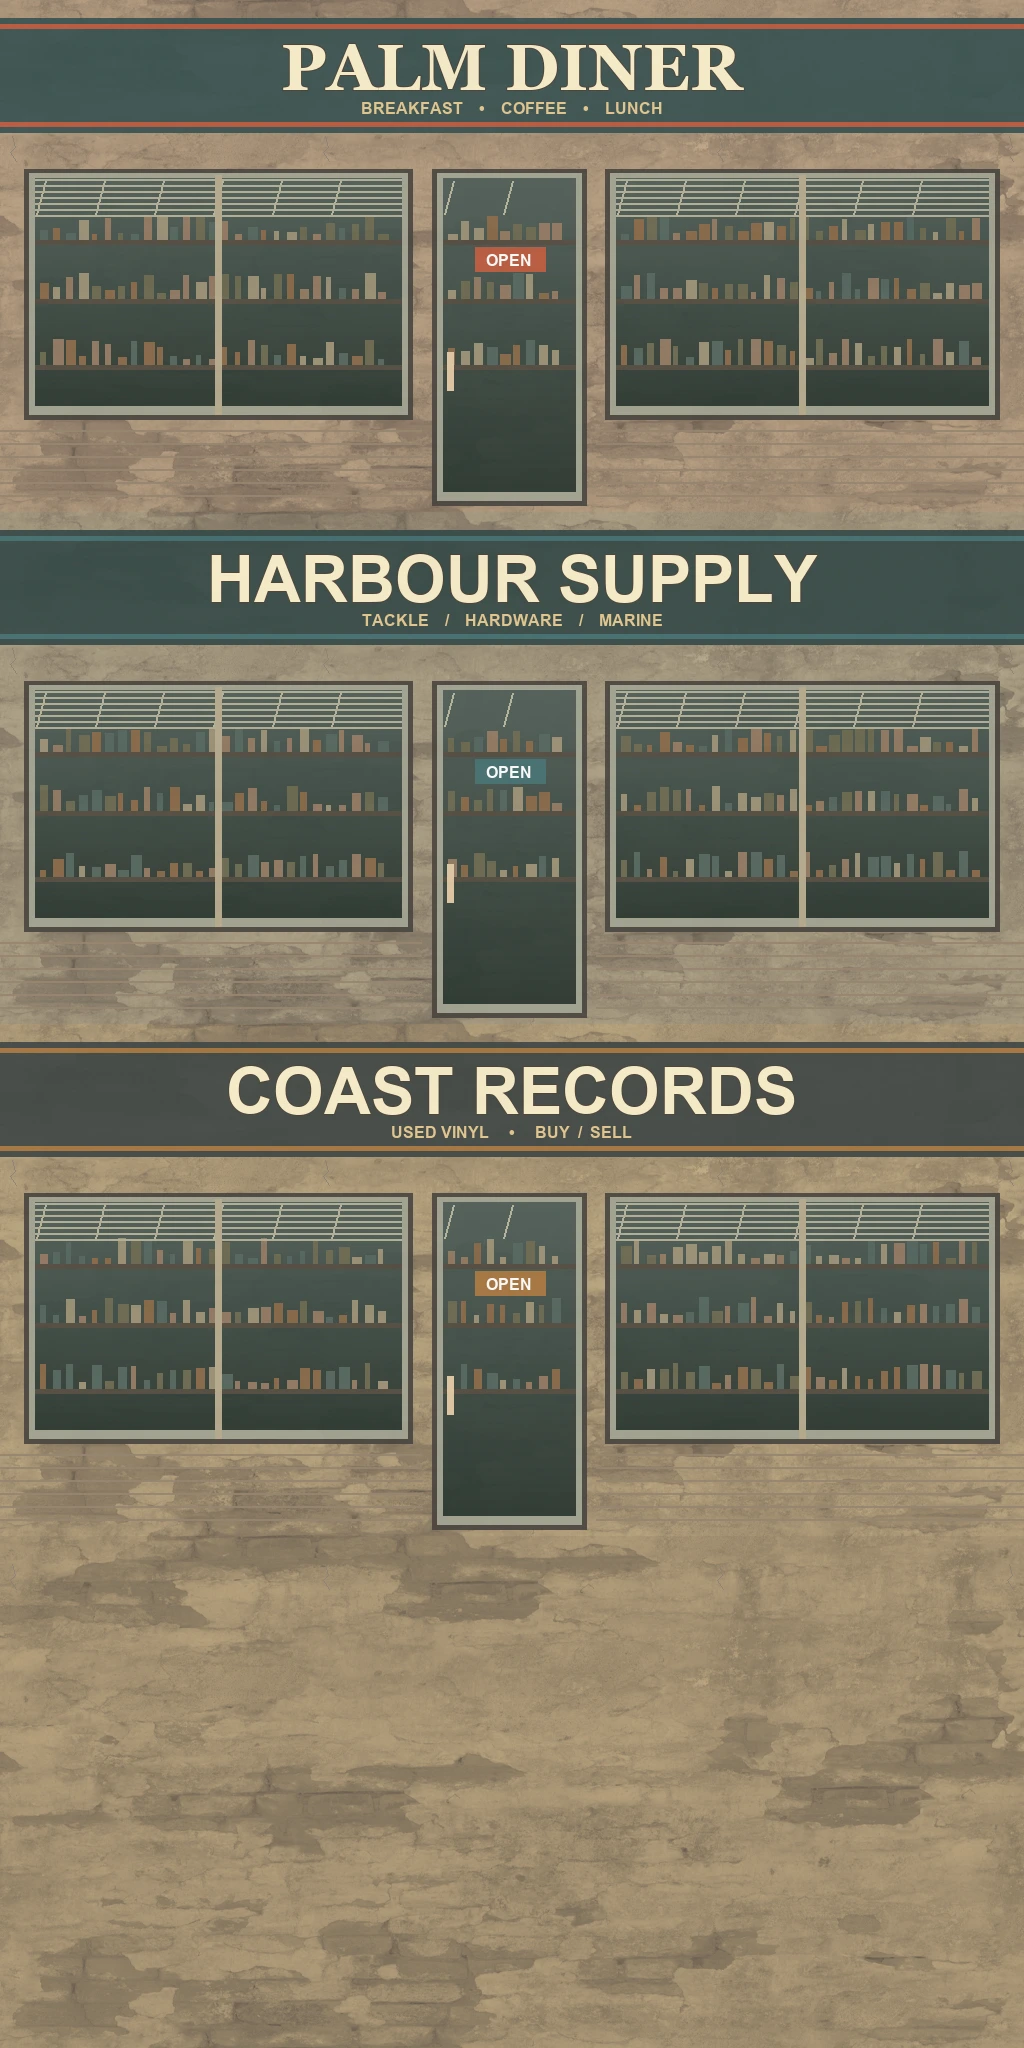
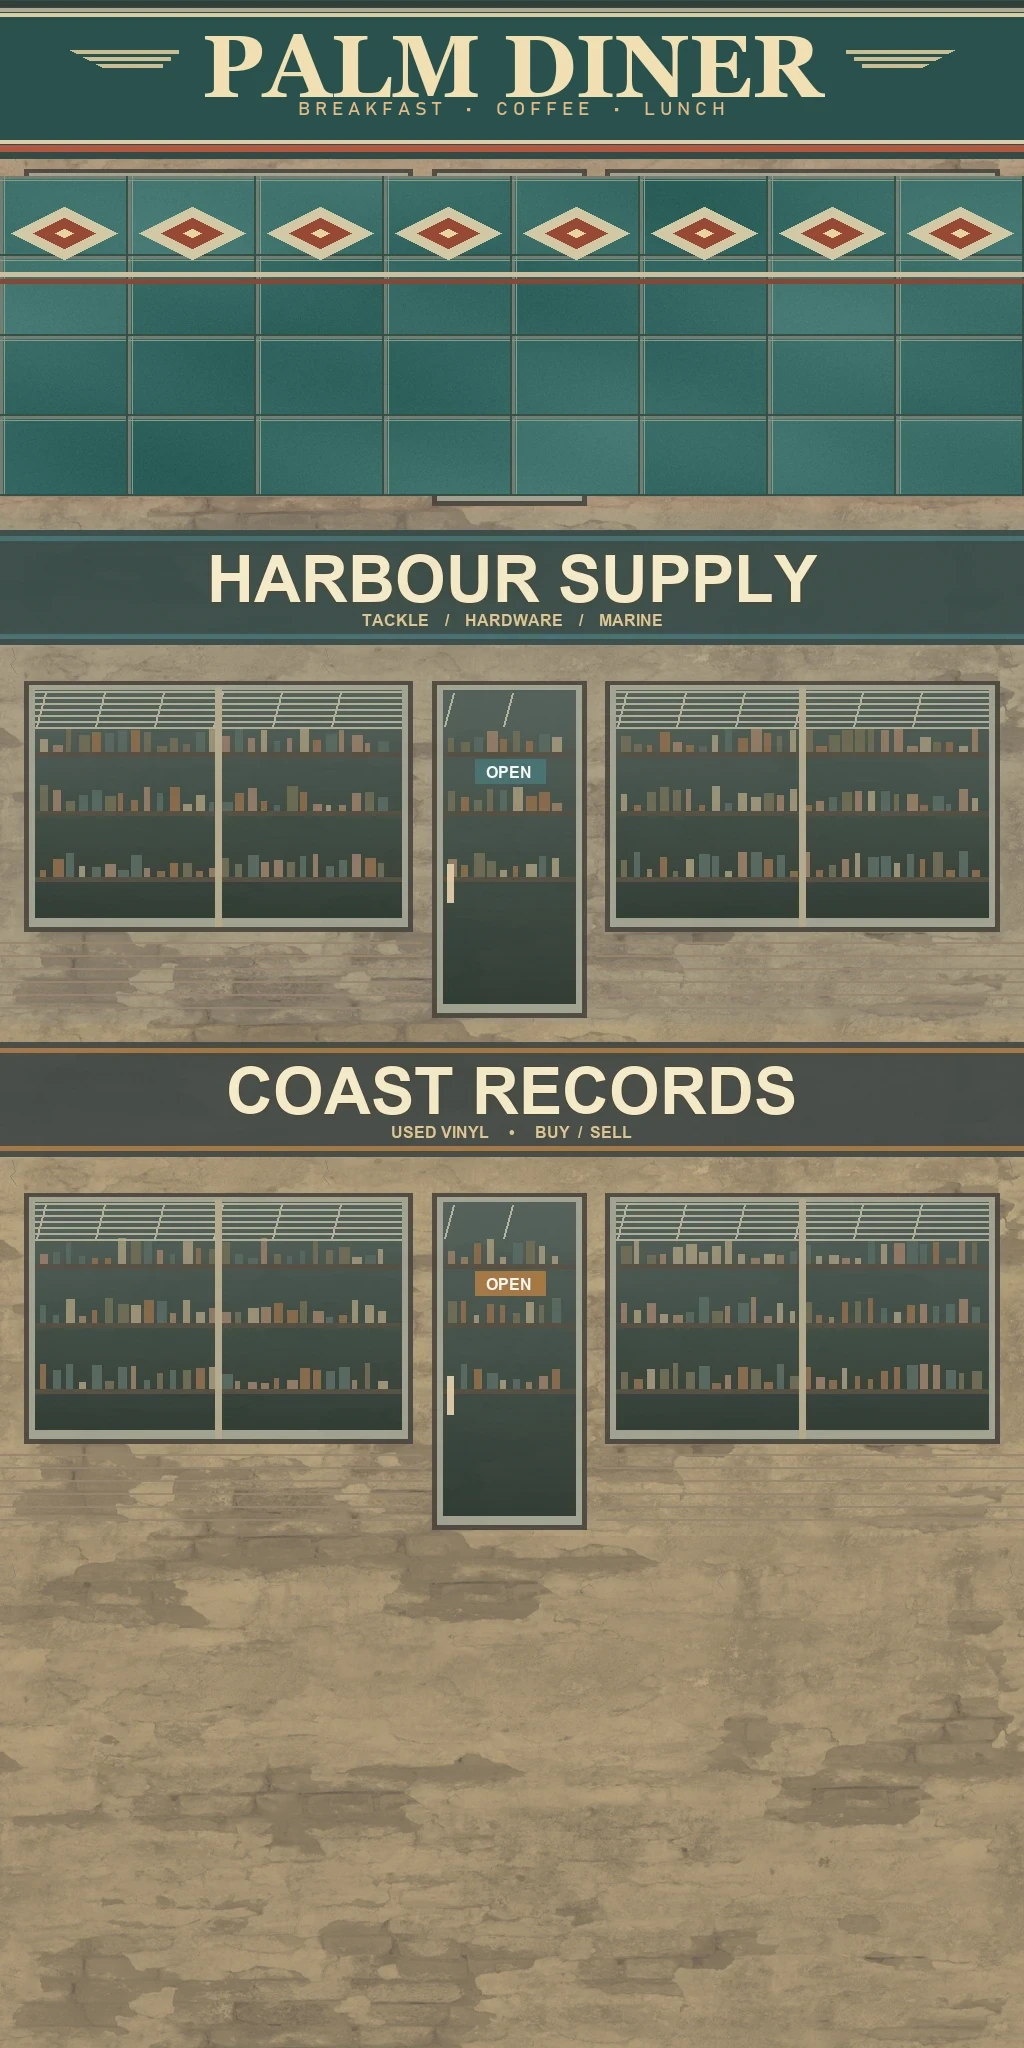
Refine Palm Diner frontage and streamline factory glazing

Changed region(s): [[0.0, 0.0, 1.0, 0.25]]

diff --git a/client/ReleaseNotes.tsx b/client/ReleaseNotes.tsx
@@ -6,7 +6,7 @@ const storageKey='eiserne-front-changelog';
 let acknowledgedInSession=false;
 const changes=[
  ['Island und Zeitreise','In der Lobby wählst du die Insel oder eine der drei historischen Karten. Kroenen ist in beiden Welten spielbar. Die übrigen Bonusfiguren und die Sprengrennwagen gehören zur Insel.'],
- ['Begehbare Harbour Road','Östlich der Radarstation liegen Palm Diner, Harbour Supply und Coast Records. Durch die offenen Eingänge gelangst du zu Sitznischen, Warenregalen und Plattenkisten. Die Läden haben eigene Böden, gerahmte Drucke, Verpackungen und Einrichtung. Bei Harbour Supply hängt ein illustrierter Musterkasten für Schiffszubehör samt aufgeschossener Leine. Im Palm Diner stehen Ketchup und Senf auf einem Emailletablett. Über dem Tresen hängt die illustrierte Frühstückskarte. Coast Records hat einen Hörplatz mit Holzlautsprechern und dem eigens gestalteten Albumcover „Low Water“. Pendelleuchten werfen warme Lichtkegel, und die Schaufenster haben profilierte Rahmen.'],
+ ['Begehbare Harbour Road','Östlich der Radarstation liegen Palm Diner, Harbour Supply und Coast Records. Durch die offenen Eingänge gelangst du zu Sitznischen, Warenregalen und Plattenkisten. Die Läden haben eigene Böden, gerahmte Drucke, Verpackungen und Einrichtung. Bei Harbour Supply hängt ein illustrierter Musterkasten für Schiffszubehör samt aufgeschossener Leine. Im Palm Diner stehen Ketchup und Senf auf einem Emailletablett. Über dem Tresen hängt die illustrierte Frühstückskarte. Draußen greifen der petrolfarbene Fliesensockel und das neue Fassadenschild die Farben des Innenraums auf. Coast Records hat einen Hörplatz mit Holzlautsprechern und dem eigens gestalteten Albumcover „Low Water“. Pendelleuchten werfen warme Lichtkegel, und die Schaufenster haben profilierte Rahmen.'],
  ['Post vom Hafenamt','Die Geschäfte auf Island haben neue Aushänge. Außen an der Ostwand des Diners kannst du am Nachlassschalter mit E einen Bescheid ziehen. Auf Island hat die MP 40 einen Katzenaufsatz mit gedämpftem Schuss.'],
  ['Licht, Küste und Inselstraße','Ein fotografierter Himmel bestimmt Tageslicht und Reflexionen. Nebel und Nacht haben eigene Himmelsverläufe. Asphalt und Pflaster dunkeln bei Nebel durch Feuchtigkeit ab. Die Harbour Road führt durch eine ausgeschilderte Hafeneinfahrt zum Anleger und zum Hafenmeisterbüro. Durch die geöffneten Fenster siehst du das Funkpult, den Hafenplan und die Gezeitentafel. Hinter dem Anleger liegen Hafenkräne und der Frachter Tern Sound mit sichtbaren Stahlplattenstößen, Tiefgangsmarken, Ladebaum und Festmacherleinen. Am Ufer rollen gestaffelte Wellen mit schmalen Schaumkanten über nassen Sand, entlang der Straße wachsen Sträucher. Die Harbour Road hat einen Zebrastreifen, Straßenabläufe und einen Schachtdeckel. Felsen haben verwitterte Oberflächen mit dunkleren Gezeitenzonen. Auf Hoch und Ultra zeichnen sich Lichtmuster im flachen Wasser ab. Werkstätten und Depots tragen Dachaufbauten, Fensterrahmen und Fallrohre. Die Radarplattform hat jetzt einen Fachwerkmast, Funkkästen und neu markierte Zugänge.'],
  ['Historische Architektur','In Köln und im Güterviertel findest du Bahnhofsuhren, eiserne Vordächer und gemauerte Gesimse. Der Deutzer Bahnhof hat ein neues Vordach, Wandlaternen und eine Abfahrtstafel am Vorplatz. Nachts leuchten die Laternen, der Fahrplan und einzelne Fenster der umliegenden Häuser. Hinter den Straßen setzen sich die Häuserzeilen bis zum Horizont fort. Höhere Grafikprofile zeigen zusätzliche Gauben und Dachaufbauten. Die Kölner Eisenbahnbrücke hat ausgearbeitete Stahlbögen, Querverbände und genietete Anschlussbleche. Am Rheinufer stehen Kaimauern mit Hochwassermarken, Auslässen und Landungstreppen. Die Wasseroberfläche zeigt Strömungsrippel. Natursteinplatten, Rinnen und Fahrspuren verbinden Kino und Güterbahnhof. Beladene Handkarren stehen im Güterhof. Die Gleise haben profilierte Schienen mit blanken Laufflächen, Befestigungen und gemaserten Schwellen. An Gleis 2 erkennst du die Paketannahme der Feldpost an ihrer Backsteinfassade und dem gemalten Schild. Am Ende der Gleise stehen ein Bahnwasserturm und ein Wasserkran. Am Turm sind gemauerte Bögen, vertiefte Fugen und genietete Bleche sichtbar. Über dem Kölner Rheinufer ragen die beiden gotischen Domtürme mit Maßwerk und abgestuften Spitzen auf. In den Alpen liegen gestaffelte Kalkgrate mit Schneefeldern hinter den Kasernen. Unterhalb der Grate stehen Fichten. Schneeverwehungen, Radspuren und festgetretene Wege verbinden die Kasernen mit der Passstraße. Auf den Dächern liegt ungleichmäßig verteilter Schnee. Roche-la-Croix hat eine befestigte Betonfront und eine stählerne Beobachtungsglocke.'],
@@ -15,7 +15,7 @@ const changes=[
  ['Zielfernrohre und historische Ausrüstung','Das Gewehr 43 mit ZF4 ergänzt den Karabiner 98k mit ZF39. Halte die rechte Maustaste für den vierfachen Zoom. Du kannst beim Zielen mit der linken Maustaste schießen.'],
  ['Zeichen und Auszeichnungen','In Köln und im Güterviertel findest du historische Luftschutzzeichen. Nach historischen Gefechten zeigt die Ergebnisansicht verdiente Auszeichnungen.'],
  ['Lobby und Fahrparcours','Die Spielauswahl nutzt auf großen Bildschirmen mehr Breite. Die Einsatzsteuerung sitzt unten. Im Inseltraining führt der Rennwagenparcours an der Küste durch eine Unterführung.'],
- ['Flüssigeres Umsehen','Beim Blick auf geschlossene Ladenwände begrenzt der Renderer die Sichttiefe auf den Raum und spart verdeckte Teile der Insel aus. In „Hoch“ und „Ultra“ berechnet das Spiel dort nur die Schatten, die in den sichtbaren Bereich fallen können. Der Modus „Flüssig“ passt die interne Auflösung an die GPU-Auslastung an. Leuchtspuren werden gemeinsam gezeichnet. Staub und Metallfunken sehen unterschiedlich aus. Explosionen zeigen einen kurzen Feuerblitz und Staub, der sich ausbreitet. Zerbrechende Scheiben streuen unterschiedlich geformte Splitter, die zusammen gezeichnet werden. Uniformteile werden gemeinsam gezeichnet. Entfernte Standardfiguren nutzen beim normalen Blick ein leichteres Körpermodell. Hoch und Ultra richten den Wechsel nach der tatsächlichen Renderauflösung. Die offene Visierung behält diese Abstufung, das Zielfernrohr zeigt das Vollmodell. Entfernte Deckungskisten bekommen in „Hoch“ einfachere Schatten, auch wenn direkt vor dir eine Kiste steht. Kantenglättung und Farbausgabe teilen sich einen Renderdurchlauf. Die Berechnung der Kontaktschatten verwendet kleinere Zwischenpuffer. Auf unterstützten Systemen bündelt der Renderer opake Fassaden auf Island in „Hoch“ und „Ultra“. Die Abschussliste und die persönliche Statusanzeige werden nur bei sichtbaren Änderungen neu aufgebaut. Das Spiel erstellt abgelegte Figuren mit weniger Rechenarbeit. Bots können den zuvor versperrten Ausrüstungspunkt auf Island erreichen. HUD und Menüs bleiben scharf.'],
+ ['Flüssigeres Umsehen','Beim Blick auf geschlossene Ladenwände begrenzt der Renderer die Sichttiefe auf den Raum und spart verdeckte Teile der Insel aus. In „Hoch“ und „Ultra“ berechnet das Spiel dort nur die Schatten, die in den sichtbaren Bereich fallen können. Der Modus „Flüssig“ passt die interne Auflösung an die GPU-Auslastung an. Leuchtspuren werden gemeinsam gezeichnet. Staub und Metallfunken sehen unterschiedlich aus. Explosionen zeigen einen kurzen Feuerblitz und Staub, der sich ausbreitet. Zerbrechende Scheiben streuen unterschiedlich geformte Splitter, die zusammen gezeichnet werden. Uniformteile werden gemeinsam gezeichnet. Entfernte Standardfiguren nutzen beim normalen Blick ein leichteres Körpermodell. Hoch und Ultra richten den Wechsel nach der tatsächlichen Renderauflösung. Die offene Visierung behält diese Abstufung, das Zielfernrohr zeigt das Vollmodell. Entfernte Deckungskisten bekommen in „Hoch“ einfachere Schatten, auch wenn direkt vor dir eine Kiste steht. Kantenglättung und Farbausgabe teilen sich einen Renderdurchlauf. Die Berechnung der Kontaktschatten verwendet kleinere Zwischenpuffer. Auf unterstützten Systemen bündelt der Renderer opake Fassaden auf Island in „Hoch“ und „Ultra“. Ebene Fabrikfenster werden in einem Transparenzdurchlauf gezeichnet. Die Abschussliste und die persönliche Statusanzeige werden nur bei sichtbaren Änderungen neu aufgebaut. Das Spiel erstellt abgelegte Figuren mit weniger Rechenarbeit. Bots können den zuvor versperrten Ausrüstungspunkt auf Island erreichen. HUD und Menüs bleiben scharf.'],
 ] as const;
 
 export function ReleaseNotes(){

diff --git a/client/islandStreet.ts b/client/islandStreet.ts
@@ -311,13 +311,23 @@ export function addIslandStreet(scene:T.Group){
       const frameWidth=s.w/2-1.30;
       const frameX=s.x+direction*(1.16+frameWidth/2);
       const frontZ=edge+s.front*.126;
-      cuboid(outerX,y/2,frontZ,.20,y,.18,wood);
-      cuboid(outerX,y/2,frontZ+s.front*.104,.040,y-.12,.034,accent);
+      const diner=s.id==='diner';
+      cuboid(outerX,y/2,frontZ,.20,y,.18,diner?chrome:wood).castShadow=!diner;
+      cuboid(outerX,y/2,frontZ+s.front*.104,.040,y-.12,.034,diner?cream:accent);
       cuboid(frameX,.18,frontZ,frameWidth,.17,.092,iron);
-      cuboid(frameX,.83,frontZ,frameWidth,.073,.095,wood);
+      cuboid(frameX,.83,frontZ,frameWidth,.073,.095,diner?chrome:wood);
       for(let panel=0;panel<3;panel++){
         const center=frameX+frameWidth*((panel+.5)/3-.5);
         const panelWidth=frameWidth/3-.075;
+        if(diner){
+          // Fired tile bulkhead and separate steel expansion joints under the enamel sign.
+          // The original facade atlas also supplies the lettering, so both share its batch.
+          const tiles=new T.PlaneGeometry(frameWidth/3,.59),uv=tiles.getAttribute('uv');
+          for(let i=0;i<uv.count;i++)uv.setXY(i,.002+.996*uv.getX(i),1-(494-316*uv.getY(i))/2048);
+          solid(tiles,center,.525,frontZ+.085,facade).castShadow=true;
+          cuboid(center-frameWidth/6+.011,.525,frontZ+.089,.023,.60,.033,chrome).castShadow=false;
+          continue;
+        }
         cuboid(center,.477,frontZ+s.front*.03,panelWidth,.43,.085,wood);
         cuboid(center,.48,frontZ+s.front*.081,panelWidth-.105,.32,.034,accent);
         cuboid(center,.614,frontZ+s.front*.110,panelWidth-.155,.038,.024,trim);

diff --git a/client/environmentAssets.ts b/client/environmentAssets.ts
@@ -41,6 +41,9 @@ export function loadEnvironmentUpgrade(scene:T.Scene,world:World,renderer:T.WebG
  const configure=(model:T.Group,foliage=false)=>model.traverse(o=>{if(o instanceof T.Mesh)for(const material of Array.isArray(o.material)?o.material:[o.material]){
   for(const texture of Object.values(material))if(texture instanceof T.Texture)texture.anisotropy=anisotropy;
   if(!foliage&&material instanceof T.MeshStandardMaterial)applySurfaceFinish(material,true);
+  // The factory asset's glass triangles lie in one plane. Rendering both
+  // faces together keeps two-sided lighting without a second transparent draw.
+  if(material.transparent&&material.name==='modular_factory_facade_windows_glass')material.forceSinglePass=true;
   // Cutout leaves sort correctly across instances and cast leaf-shaped shadows.
   if(foliage&&material.transparent){material.transparent=false;material.alphaTest=.4;material.depthWrite=true;material.needsUpdate=true;}
  }});

diff --git a/tests/harbour-road-battle.py b/tests/harbour-road-battle.py
@@ -16,6 +16,8 @@ OUT = Path('artifacts/harbour-battle') / ('production' if PRODUCTION else '')
 OUT.mkdir(parents=True, exist_ok=True)
 COMBAT_MOVEMENT = os.environ.get('BATTLE_COMBAT_MOVEMENT') == '1'
 FIXED_TURNS = os.environ.get('BATTLE_FIXED_TURNS') == '1'
+DRAW_PROFILE = os.environ.get('BATTLE_DRAW_PROFILE') == '1'
+assert not DRAW_PROFILE or PRODUCTION, 'BATTLE_DRAW_PROFILE requires the separate production harness'
 
 
 def observe(route):
@@ -105,6 +107,8 @@ def measure_turns(page, name):
             raise TurnLifeInterrupted((name,'align',life))
     pose=page.evaluate('()=>{const {x,z,yaw}=harbourQA.player;return {x,z,yaw}}')
     page.evaluate('window.turnStarted=performance.now();window.turnRanges=[];harbourQA.scene.profileFrames(3000)')
+    if DRAW_PROFILE:
+        page.evaluate('battleDrawProbe.start(harbourQA.scene.frameProfile())')
     life,start = page.evaluate('[harbourQA.player.life,harbourQA.player.yaw]')
     turns=int(os.environ.get('BATTLE_TURNS','12'))
     assert 1<=turns<=80
@@ -173,7 +177,9 @@ def read_profile(page, name, during_turn=False):
                   over33=sum(t>33 for t in ms), cpuMs=round(sum(f['cpuMs'] for f in frames)/len(ms),1), calls=round(sum(f['calls'] for f in frames)/len(ms)),scale=frames[-1]['pixelRatio'],gpuMs=frames[-1].get('gpuMs'))
     if during_turn:
         result['activeTurn'] = moving_frames(frames, page.evaluate('turnRanges'))
-    print(result, flush=True)
+        if DRAW_PROFILE:
+            result['drawProfile'] = page.evaluate('battleDrawProbe.finish(turnRanges)')
+    print({k:v for k,v in result.items() if k!='drawProfile'}, flush=True)
     for i in sorted(range(1,len(frames)),key=lambda i:frames[i]['frameMs'],reverse=True)[:3]:
         if frames[i]['frameMs']>45:
             result.setdefault('slowFrames',[]).append(dict(ms=frames[i]['frameMs'], previous=frames[i-1]))
@@ -194,6 +200,8 @@ with sync_playwright() as pw:
     quality=os.environ.get('BATTLE_GRAPHICS','performance')
     assert quality in ('auto','performance','high','ultra'),quality
     quality_suffix=('' if quality=='performance' else '-'+quality)+('-fixed-turns' if FIXED_TURNS else '')
+    if DRAW_PROFILE:
+        quality_suffix+='-draw-profile'
     page = browser.new_page(viewport=dict(width=width,height=height), device_scale_factor=1)
     page.add_init_script(f"localStorage.setItem('altstadt.graphics.v3',{json.dumps(quality)})")
     page.add_init_script("""if(PerformanceObserver.supportedEntryTypes.includes('long-animation-frame')){
